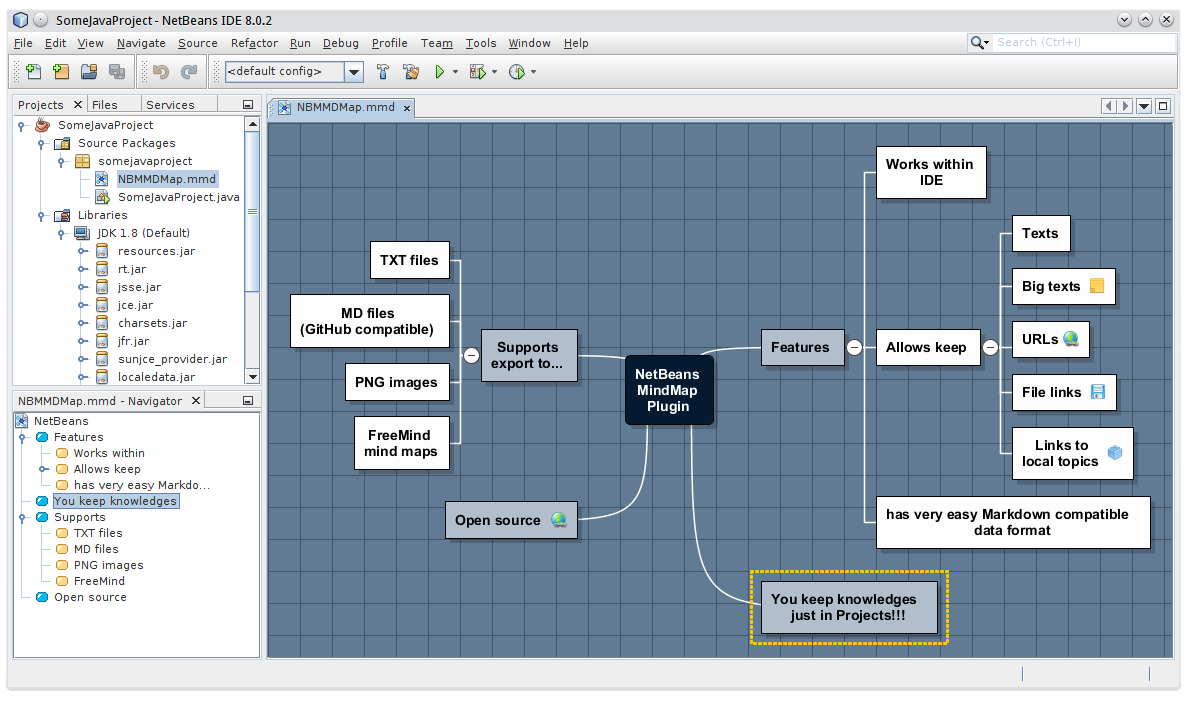
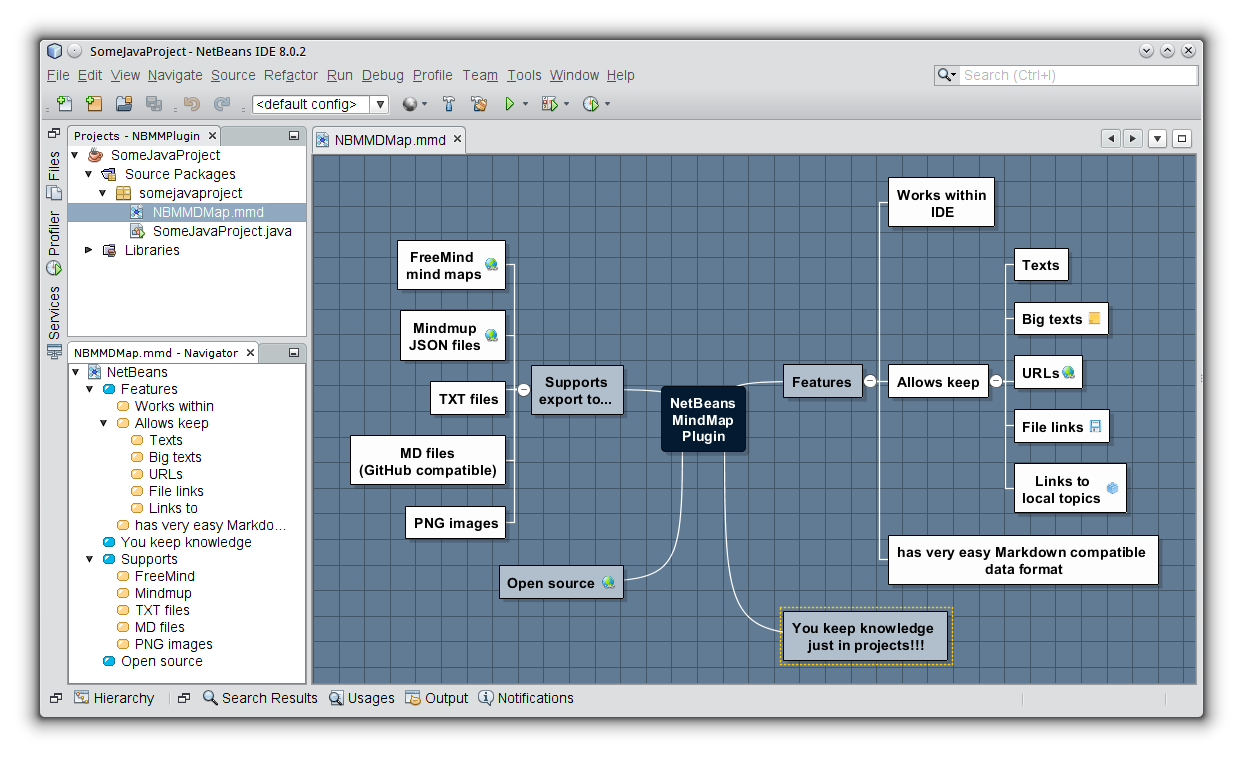
improved screenshots and freemind exporter (upgraded to 1.0.1), some fixes

diff --git a/src/main/java/com/igormaznitsa/nbmindmap/exporters/FreeMindExporter.java b/src/main/java/com/igormaznitsa/nbmindmap/exporters/FreeMindExporter.java
@@ -21,6 +21,7 @@ import com.igormaznitsa.nbmindmap.mmgui.MindMapPanel;
 import com.igormaznitsa.nbmindmap.model.Extra;
 import com.igormaznitsa.nbmindmap.model.ExtraFile;
 import com.igormaznitsa.nbmindmap.model.ExtraLink;
+import com.igormaznitsa.nbmindmap.model.ExtraLinkable;
 import com.igormaznitsa.nbmindmap.model.ExtraNote;
 import com.igormaznitsa.nbmindmap.model.ExtraTopic;
 import com.igormaznitsa.nbmindmap.model.Topic;
@@ -30,6 +31,8 @@ import java.awt.Color;
 import java.io.File;
 import java.io.IOException;
 import java.sql.Timestamp;
+import java.util.ArrayList;
+import java.util.List;
 import java.util.Locale;
 import javax.swing.ImageIcon;
 import javax.swing.filechooser.FileFilter;
@@ -124,8 +127,8 @@ public class FreeMindExporter extends AbstractMindMapExporter {
             .append("\" BACKGROUND_COLOR=\"") //NOI18N
             .append(color2html(backcolor)) //NOI18N
             .append("\" ") //NOI18N
-            .append(position.isEmpty() ? " " : String.format("POSITION=\"%s\"",position)) //NOI18N
-            .append("ID=\"") //NOI18N
+            .append(position.isEmpty() ? " " : String.format("POSITION=\"%s\"", position)) //NOI18N
+            .append(" ID=\"") //NOI18N
             .append(makeUID(topic)) //NOI18N
             .append("\" ") //NOI18N
             .append("TEXT=\"") //NOI18N
@@ -138,15 +141,26 @@ public class FreeMindExporter extends AbstractMindMapExporter {
 
     final String thelink;
 
+    final List<Extra<?>> extrasToSaveInText = new ArrayList<Extra<?>>();
+
     // make some prioritization for only attribute
-    if (file != null) {
+    if (transition != null) {
+      thelink = '#' + makeUID(topic.getMap().findTopicForLink(transition));//NOI18N
+      if (file != null) {
+        extrasToSaveInText.add(file);
+      }
+      if (link != null) {
+        extrasToSaveInText.add(link);
+      }
+    }
+    else if (file != null) {
       thelink = file.getValue().toString();
+      if (link != null) {
+        extrasToSaveInText.add(link);
+      }
     }
     else if (link != null) {
       thelink = link.getValue().toString();
-    }
-    else if (transition != null) {
-      thelink = '#' + makeUID(topic.getMap().findTopicForLink(transition));//NOI18N
     }
     else {
       thelink = "";//NOI18N
@@ -164,8 +178,29 @@ public class FreeMindExporter extends AbstractMindMapExporter {
 
     final ExtraNote note = (ExtraNote) topic.getExtras().get(Extra.ExtraType.NOTE);
 
+    final StringBuilder htmlTextForNode = new StringBuilder();
+    if (!extrasToSaveInText.isEmpty()) {
+      htmlTextForNode.append("<ul>");
+      for (final Extra<?> e : extrasToSaveInText) {
+        htmlTextForNode.append("<li>");
+        if (e instanceof ExtraLinkable) {
+          final String linkAsText = ((ExtraLinkable)e).getAsURI().toASCIIString();
+          htmlTextForNode.append("<b>").append(StringEscapeUtils.escapeHtml(e.getType().name())).append(": </b>").append("<a href=\"").append(linkAsText).append("\">").append(linkAsText).append("</a>"); //NOI18N
+        }
+        else {
+          htmlTextForNode.append("<b>").append(StringEscapeUtils.escapeHtml(e.getType().name())).append(": </b>").append(StringEscapeUtils.escapeHtml(e.getAsString())); //NOI18N
+        }
+        htmlTextForNode.append("</li>");
+      }
+      htmlTextForNode.append("</ul>");
+    }
+
     if (note != null) {
-      state.append(childShift).append("<hook NAME=\"accessories/plugins/NodeNote.properties\">").nextLine().append(childShift).append(" <text>").append(escapeXML(note.getValue())).append("</text>").nextLine().append(childShift).append("</hook>").nextLine();//NOI18N
+      htmlTextForNode.append("<p><pre>").append(StringEscapeUtils.escapeHtml(note.getValue())).append("</pre></p>"); //NOI18N
+    }
+
+    if (htmlTextForNode.length() > 0) {
+      state.append(childShift).append("<richcontent TYPE=\"NOTE\">").append("<html><head></head><body>"+htmlTextForNode.toString()+"</body></html>").append("</richcontent>").nextLine();//NOI18N
     }
 
     for (final Topic ch : topic.getChildren()) {
@@ -182,7 +217,7 @@ public class FreeMindExporter extends AbstractMindMapExporter {
     state.append("<?xml version=\"1.0\" encoding=\"UTF-8\" standalone=\"no\"?>").nextLine();//NOI18N
     state.append("<!--").nextLine().append("Generated by NB Mind Map Plugin (https://github.com/raydac/netbeans-mmd-plugin)").nextLine();//NOI18N
     state.append(new Timestamp(new java.util.Date().getTime()).toString()).nextLine().append("-->").nextLine();//NOI18N
-    state.append("<map version=\"0.8.1\" background_color=\"").append(color2html(currentPanel.getConfiguration().getPaperColor())).append("\">").nextLine();//NOI18N
+    state.append("<map version=\"1.0.1\" background_color=\"").append(color2html(currentPanel.getConfiguration().getPaperColor())).append("\">").nextLine();//NOI18N
 
     final Topic root = currentPanel.getModel().getRoot();
     if (root != null) {
@@ -195,18 +230,18 @@ public class FreeMindExporter extends AbstractMindMapExporter {
 
     final File home = new File(System.getProperty("user.home"));//NOI18N
     File fileToSaveImage = new FileChooserBuilder("user-dir").//NOI18N
-            setTitle(java.util.ResourceBundle.getBundle("com/igormaznitsa/nbmindmap/i18/Bundle").getString("FreeMindExporter.saveDialogTitle")).setDefaultWorkingDirectory(home).setFilesOnly(true).setFileFilter(new FileFilter() { 
+            setTitle(java.util.ResourceBundle.getBundle("com/igormaznitsa/nbmindmap/i18/Bundle").getString("FreeMindExporter.saveDialogTitle")).setDefaultWorkingDirectory(home).setFilesOnly(true).setFileFilter(new FileFilter() {
 
-      @Override
-      public boolean accept(File f) {
-        return f.isDirectory() || (f.isFile() && f.getName().toLowerCase(Locale.ENGLISH).endsWith(".mm")); //NOI18N
-      }
+              @Override
+              public boolean accept(File f) {
+                return f.isDirectory() || (f.isFile() && f.getName().toLowerCase(Locale.ENGLISH).endsWith(".mm")); //NOI18N
+              }
 
-      @Override
-      public String getDescription() {
-        return java.util.ResourceBundle.getBundle("com/igormaznitsa/nbmindmap/i18/Bundle").getString("FreeMindExporter.filterDescription");
-      }
-    }).setApproveText(java.util.ResourceBundle.getBundle("com/igormaznitsa/nbmindmap/i18/Bundle").getString("FreeMindExporter.saveText")).showSaveDialog();
+              @Override
+              public String getDescription() {
+                return java.util.ResourceBundle.getBundle("com/igormaznitsa/nbmindmap/i18/Bundle").getString("FreeMindExporter.filterDescription");
+              }
+            }).setApproveText(java.util.ResourceBundle.getBundle("com/igormaznitsa/nbmindmap/i18/Bundle").getString("FreeMindExporter.saveText")).showSaveDialog();
 
     fileToSaveImage = checkFile(fileToSaveImage, ".mm");//NOI18N
 

diff --git a/src/main/java/com/igormaznitsa/nbmindmap/model/ExtraLinkable.java b/src/main/java/com/igormaznitsa/nbmindmap/model/ExtraLinkable.java
@@ -16,39 +16,7 @@
 package com.igormaznitsa.nbmindmap.model;
 
 import java.net.URI;
-import java.net.URISyntaxException;
 
-public class ExtraFile extends Extra<URI> implements ExtraLinkable{
-  private static final long serialVersionUID = -478916403235887225L;
-
-  private final URI file;
-  
-  public ExtraFile(final URI file){
-    this.file = file;
-  }
-
-  public ExtraFile(final String text) throws URISyntaxException {
-    this.file = new URI(text);
-  }
-  
-  @Override
-  public URI getValue() {
-    return file;
-  }
-
-  @Override
-  public ExtraType getType() {
-    return ExtraType.FILE;
-  }
-
-  @Override
-  public String getAsString() {
-    return this.file.toString();
-  }
-
-  @Override
-  public URI getAsURI() {
-    return this.file;
-  }
-
+public interface ExtraLinkable {
+  URI getAsURI();
 }

diff --git a/src/main/java/com/igormaznitsa/nbmindmap/mmgui/MindMapPanel.java b/src/main/java/com/igormaznitsa/nbmindmap/mmgui/MindMapPanel.java
@@ -923,10 +923,12 @@ public final class MindMapPanel extends JPanel implements Configuration.Configur
   public void endEdit(final boolean commit) {
     try {
       if (commit && this.elementUnderEdit != null) {
-        this.elementUnderEdit.setText(this.textEditor.getText());
+        final AbstractElement editedElement = this.elementUnderEdit;
+        final Topic editedTopic = this.elementUnderEdit.model;
+        editedElement.setText(this.textEditor.getText());
         this.textEditorPanel.setVisible(false);
         updateView(true);
-        fireNotificationEnsureTopicVisibility(this.elementUnderEdit.model);
+        fireNotificationEnsureTopicVisibility(editedTopic);
       }
     }
     finally {

diff --git a/src/main/java/com/igormaznitsa/nbmindmap/model/ExtraLink.java b/src/main/java/com/igormaznitsa/nbmindmap/model/ExtraLink.java
@@ -18,7 +18,7 @@ package com.igormaznitsa.nbmindmap.model;
 import java.net.URI;
 import java.net.URISyntaxException;
 
-public class ExtraLink extends Extra<URI> {
+public class ExtraLink extends Extra<URI> implements ExtraLinkable {
   private static final long serialVersionUID = -3343908686571445847L;
   private final URI uri;
   
@@ -43,6 +43,11 @@ public class ExtraLink extends Extra<URI> {
   @Override
   public String getAsString() {
     return this.uri.toString();
+  }
+
+  @Override
+  public URI getAsURI() {
+    return this.uri;
   }
 
 }
